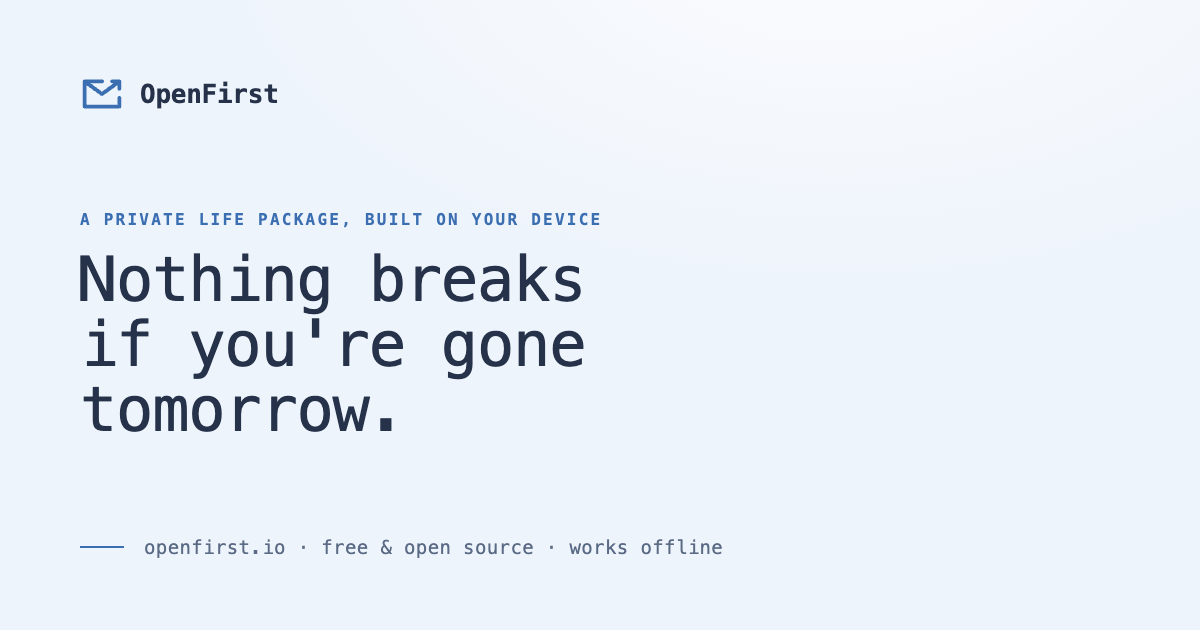
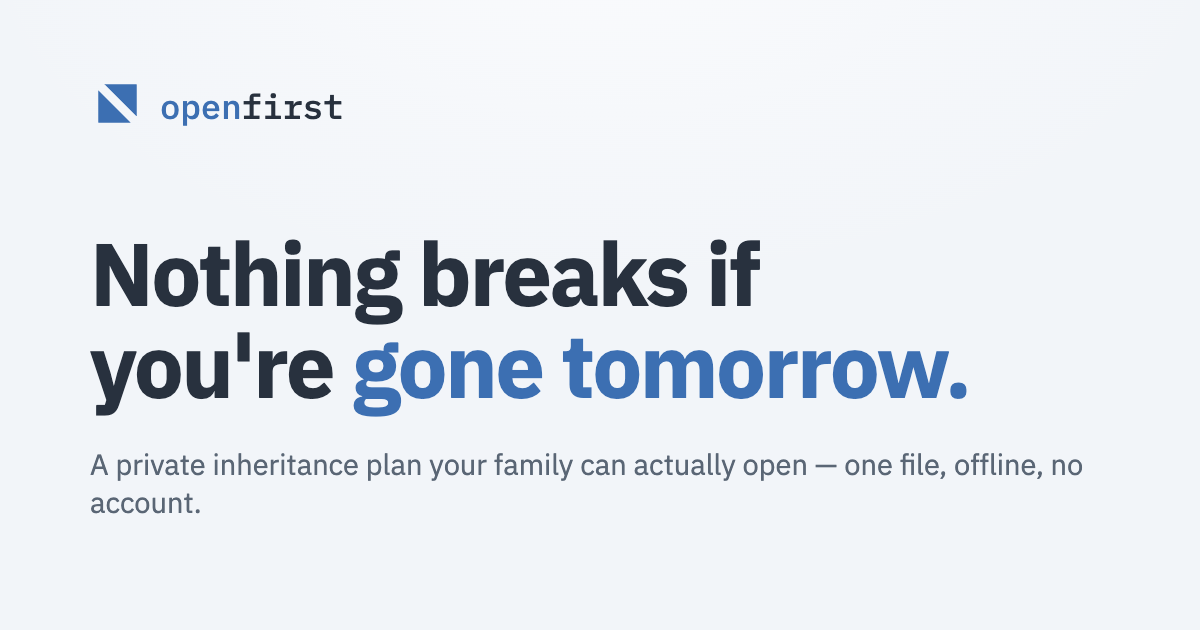
Brand: V5 split mark everywhere; lowercase two-tone wordmark
logo.py now draws 'the split' — a square opened along its diagonal, two
solid triangles, the top half lifted toward the top-right. Regenerated
logo.svg (site + app), favicon.svg/16/32, apple-touch-icon, PWA icons,
maskable, and og.png. The wordmark next to the mark is now lowercase
'openfirst' set in mono with 'open' in heaven blue and 'first' in ink —
the color seam marks the word boundary, easier to parse than CamelCase.

diff --git a/app/public/404.html b/app/public/404.html
@@ -63,6 +63,7 @@
     }
     .topbar .row { height: 60px; }
     .brand { font-family: "IBM Plex Mono", ui-monospace, SFMono-Regular, Menlo, monospace; font-weight: 500; gap: 10px; color: var(--ink); }
+    .brand-name b { color: var(--accent-deep); font-weight: 500; }
     .brand:hover { text-decoration: none; }
     .logo { width: 24px; height: 24px; display: block; }
     .topnav { display: flex; align-items: center; gap: 24px; }
@@ -113,7 +114,7 @@
 <body>
   <header class="topbar">
     <div class="container row">
-      <a class="brand row" href="/"><img class="logo" src="/logo.svg" alt="" /><span>OpenFirst</span></a>
+      <a class="brand row" href="/"><img class="logo" src="/logo.svg" alt="" /><span class="brand-name"><b>open</b>first</span></a>
       <span class="spacer"></span>
       <nav class="topnav">
         <a href="/demo/">Demo</a>

diff --git a/app/public/guides/bitcoin-inheritance-runbook/index.html b/app/public/guides/bitcoin-inheritance-runbook/index.html
@@ -62,6 +62,7 @@
     }
     .topbar .row { height: 60px; }
     .brand { font-family: "IBM Plex Mono", ui-monospace, SFMono-Regular, Menlo, monospace; font-weight: 500; gap: 10px; color: var(--ink); }
+    .brand-name b { color: var(--accent-deep); font-weight: 500; }
     .brand:hover { text-decoration: none; }
     .logo { width: 24px; height: 24px; display: block; }
     .topnav { display: flex; align-items: center; gap: 24px; }
@@ -126,7 +127,7 @@
 <body>
   <header class="topbar">
     <div class="container row">
-      <a class="brand row" href="/"><img class="logo" src="/logo.svg" alt="" /><span>OpenFirst</span></a>
+      <a class="brand row" href="/"><img class="logo" src="/logo.svg" alt="" /><span class="brand-name"><b>open</b>first</span></a>
       <span class="spacer"></span>
       <nav class="topnav">
         <a href="/demo/">Demo</a>

diff --git a/app/public/guides/dry-run/index.html b/app/public/guides/dry-run/index.html
@@ -62,6 +62,7 @@
     }
     .topbar .row { height: 60px; }
     .brand { font-family: "IBM Plex Mono", ui-monospace, SFMono-Regular, Menlo, monospace; font-weight: 500; gap: 10px; color: var(--ink); }
+    .brand-name b { color: var(--accent-deep); font-weight: 500; }
     .brand:hover { text-decoration: none; }
     .logo { width: 24px; height: 24px; display: block; }
     .topnav { display: flex; align-items: center; gap: 24px; }
@@ -126,7 +127,7 @@
 <body>
   <header class="topbar">
     <div class="container row">
-      <a class="brand row" href="/"><img class="logo" src="/logo.svg" alt="" /><span>OpenFirst</span></a>
+      <a class="brand row" href="/"><img class="logo" src="/logo.svg" alt="" /><span class="brand-name"><b>open</b>first</span></a>
       <span class="spacer"></span>
       <nav class="topnav">
         <a href="/demo/">Demo</a>

diff --git a/app/public/guides/first-72-hours/index.html b/app/public/guides/first-72-hours/index.html
@@ -62,6 +62,7 @@
     }
     .topbar .row { height: 60px; }
     .brand { font-family: "IBM Plex Mono", ui-monospace, SFMono-Regular, Menlo, monospace; font-weight: 500; gap: 10px; color: var(--ink); }
+    .brand-name b { color: var(--accent-deep); font-weight: 500; }
     .brand:hover { text-decoration: none; }
     .logo { width: 24px; height: 24px; display: block; }
     .topnav { display: flex; align-items: center; gap: 24px; }
@@ -126,7 +127,7 @@
 <body>
   <header class="topbar">
     <div class="container row">
-      <a class="brand row" href="/"><img class="logo" src="/logo.svg" alt="" /><span>OpenFirst</span></a>
+      <a class="brand row" href="/"><img class="logo" src="/logo.svg" alt="" /><span class="brand-name"><b>open</b>first</span></a>
       <span class="spacer"></span>
       <nav class="topnav">
         <a href="/demo/">Demo</a>

diff --git a/app/public/guides/index.html b/app/public/guides/index.html
@@ -62,6 +62,7 @@
     }
     .topbar .row { height: 60px; }
     .brand { font-family: "IBM Plex Mono", ui-monospace, SFMono-Regular, Menlo, monospace; font-weight: 500; gap: 10px; color: var(--ink); }
+    .brand-name b { color: var(--accent-deep); font-weight: 500; }
     .brand:hover { text-decoration: none; }
     .logo { width: 24px; height: 24px; display: block; }
     .topnav { display: flex; align-items: center; gap: 24px; }
@@ -137,7 +138,7 @@
 <body>
   <header class="topbar">
     <div class="container row">
-      <a class="brand row" href="/"><img class="logo" src="/logo.svg" alt="" /><span>OpenFirst</span></a>
+      <a class="brand row" href="/"><img class="logo" src="/logo.svg" alt="" /><span class="brand-name"><b>open</b>first</span></a>
       <span class="spacer"></span>
       <nav class="topnav">
         <a href="/demo/">Demo</a>

diff --git a/app/public/guides/trusted-helper-protocol/index.html b/app/public/guides/trusted-helper-protocol/index.html
@@ -62,6 +62,7 @@
     }
     .topbar .row { height: 60px; }
     .brand { font-family: "IBM Plex Mono", ui-monospace, SFMono-Regular, Menlo, monospace; font-weight: 500; gap: 10px; color: var(--ink); }
+    .brand-name b { color: var(--accent-deep); font-weight: 500; }
     .brand:hover { text-decoration: none; }
     .logo { width: 24px; height: 24px; display: block; }
     .topnav { display: flex; align-items: center; gap: 24px; }
@@ -126,7 +127,7 @@
 <body>
   <header class="topbar">
     <div class="container row">
-      <a class="brand row" href="/"><img class="logo" src="/logo.svg" alt="" /><span>OpenFirst</span></a>
+      <a class="brand row" href="/"><img class="logo" src="/logo.svg" alt="" /><span class="brand-name"><b>open</b>first</span></a>
       <span class="spacer"></span>
       <nav class="topnav">
         <a href="/demo/">Demo</a>

diff --git a/app/public/how-to-use/index.html b/app/public/how-to-use/index.html
@@ -62,6 +62,7 @@
     }
     .topbar .row { height: 60px; }
     .brand { font-family: "IBM Plex Mono", ui-monospace, SFMono-Regular, Menlo, monospace; font-weight: 500; gap: 10px; color: var(--ink); }
+    .brand-name b { color: var(--accent-deep); font-weight: 500; }
     .brand:hover { text-decoration: none; }
     .logo { width: 24px; height: 24px; display: block; }
     .topnav { display: flex; align-items: center; gap: 24px; }
@@ -132,7 +133,7 @@
 <body>
   <header class="topbar">
     <div class="container row">
-      <a class="brand row" href="/"><img class="logo" src="/logo.svg" alt="" /><span>OpenFirst</span></a>
+      <a class="brand row" href="/"><img class="logo" src="/logo.svg" alt="" /><span class="brand-name"><b>open</b>first</span></a>
       <span class="spacer"></span>
       <nav class="topnav">
         <a href="/demo/">Demo</a>

diff --git a/app/public/pricing/index.html b/app/public/pricing/index.html
@@ -55,6 +55,7 @@
     }
     .topbar .row { height: 60px; }
     .brand { font-family: "IBM Plex Mono", ui-monospace, SFMono-Regular, Menlo, monospace; font-weight: 500; gap: 10px; color: var(--ink); }
+    .brand-name b { color: var(--accent-deep); font-weight: 500; }
     .brand:hover { text-decoration: none; }
     .logo { width: 24px; height: 24px; display: block; }
     .topnav { display: flex; align-items: center; gap: 24px; }
@@ -126,7 +127,7 @@
 <body>
   <header class="topbar">
     <div class="container row">
-      <a class="brand row" href="/"><img class="logo" src="/logo.svg" alt="" /><span>OpenFirst</span></a>
+      <a class="brand row" href="/"><img class="logo" src="/logo.svg" alt="" /><span class="brand-name"><b>open</b>first</span></a>
       <span class="spacer"></span>
       <nav class="topnav">
         <a href="/demo/">Demo</a>

diff --git a/app/public/security/index.html b/app/public/security/index.html
@@ -62,6 +62,7 @@
     }
     .topbar .row { height: 60px; }
     .brand { font-family: "IBM Plex Mono", ui-monospace, SFMono-Regular, Menlo, monospace; font-weight: 500; gap: 10px; color: var(--ink); }
+    .brand-name b { color: var(--accent-deep); font-weight: 500; }
     .brand:hover { text-decoration: none; }
     .logo { width: 24px; height: 24px; display: block; }
     .topnav { display: flex; align-items: center; gap: 24px; }
@@ -113,7 +114,7 @@
 <body>
   <header class="topbar">
     <div class="container row">
-      <a class="brand row" href="/"><img class="logo" src="/logo.svg" alt="" /><span>OpenFirst</span></a>
+      <a class="brand row" href="/"><img class="logo" src="/logo.svg" alt="" /><span class="brand-name"><b>open</b>first</span></a>
       <span class="spacer"></span>
       <nav class="topnav">
         <a href="/demo/">Demo</a>

diff --git a/app/site/index.html b/app/site/index.html
@@ -71,6 +71,7 @@
     }
     .topbar .row { height: 60px; }
     .brand { font-family: var(--mono); font-weight: 500; gap: 10px; color: var(--ink); }
+    .brand-name b { color: var(--accent-deep); font-weight: 500; }
     .brand:hover { text-decoration: none; }
     .logo { width: 24px; height: 24px; display: block; }
     .topnav { display: flex; align-items: center; gap: 24px; }
@@ -256,7 +257,7 @@
 <body class="home">
   <header class="topbar">
     <div class="container row">
-      <a class="brand row" href="/"><img class="logo" src="/logo.svg" alt="" /><span>OpenFirst</span></a>
+      <a class="brand row" href="/"><img class="logo" src="/logo.svg" alt="" /><span class="brand-name"><b>open</b>first</span></a>
       <span class="spacer"></span>
       <nav class="topnav">
         <a href="/demo/">Demo</a>

diff --git a/app/src/components/Landing.svelte b/app/src/components/Landing.svelte
@@ -65,7 +65,7 @@
     <div class="container row">
       <a class="brand row" href="/">
         <img class="logo" src={logo} alt="" aria-hidden="true" />
-        <span>OpenFirst</span>
+        <span class="brand-name"><b>open</b>first</span>
       </a>
       <span class="spacer"></span>
       <nav class="topnav">
@@ -167,6 +167,7 @@
   }
   .topbar .row { height: 60px; }
   .brand { font-family: var(--mono); font-weight: 500; gap: 10px; color: var(--ink); }
+  .brand-name b { color: var(--accent-deep); font-weight: 500; }
   .brand:hover { text-decoration: none; }
   .logo { width: 24px; height: 24px; display: block; }
   .topnav { display: flex; align-items: center; gap: 24px; }

diff --git a/app/scripts/logo.py b/app/scripts/logo.py
@@ -1,17 +1,13 @@
 #!/usr/bin/env python3
 """
-OpenFirst logo — described mathematically and rendered to SVG or PNG.
+OpenFirst logo — "the split", described mathematically, rendered to SVG or PNG.
 
-The mark is an ENVELOPE whose top-right corner is "cut open", the way the
-"open in external" icon cuts its box: the top and right edges stop short, a
-detached L-shaped corner piece becomes the arrowhead, and the right line of
-the flap's V continues as a diagonal shaft pointing into it — the digital
-"open" gesture. An envelope you open first.
+The mark is a SQUARE OPENED ALONG ITS DIAGONAL: two solid right triangles,
+the top half lifted away toward the top-right. Something sealed, opening —
+pure geometry, no outline, reads at 16px. (Chosen by Miro 2026-07-10 from
+the triangle series, V5.)
 
-Stroke thickness matches the freedomclock.io mark (ring width 80/1024 ≈ 7.8%
-of the canvas). Round caps/joins, like the marker sketch it comes from.
-
-Same spirit as freedomclock.io/internal/freedom_clock_icon.py.
+Sharp edges, solid fills. Same spirit as freedomclock.io's generated mark.
 
 Examples:
   python3 scripts/logo.py --format svg --size 1024 --out logo.svg
@@ -20,7 +16,6 @@ Examples:
 """
 
 import argparse
-import math
 
 
 # ---------- colour helpers (as in freedom_clock_icon.py) ----------
@@ -54,51 +49,29 @@ def rgba_to_hex(rgba):
 # Built in a 100-unit design space, then fitted to the canvas. All numbers are
 # ratios of that space.
 #
-#   L,T ────────────╌╌  gap  ╌╌   ↗ tip
-#    │ ╲          ╱  (shaft through the cut corner)
-#    │   ╲      ╱ V
-#    │     ╲  ╱                 ╎ gap
-#    │      V                   │ R (edge resumes lower)
-#    └──────────────────────────┘
+#        ┌──────────╱ upper  (a square's top-right triangle,
+#        │        ╱╱          displaced toward the top-right)
+#        │      ╱╱
+#   lower│    ╱╱  ← the open diagonal gap
+#        │  ╱
+#        └──────────
 #
-# The flap's right line and the arrow shaft are ONE stroke: from the V vertex,
-# through where the corner would be, out to the arrowhead.
+# Two solid right triangles from one square, split along the diagonal; the
+# upper half is shifted (+SHIFT, -SHIFT) so a parallel gap opens between them.
 
-STROKE = 8.0          # 8% of the design space ≈ freedomclock ring thickness
-L, R, T, B = 14.0, 86.0, 26.0, 78.0   # envelope rectangle
-TOP_END_X = 50.0      # top edge stops here (start of the cut)
-RIGHT_START_Y = 60.0  # right edge resumes here (end of the cut)
-CORNER_ARM = 15.0     # length of the detached corner piece's two arms (shorter arrowhead)
-V = (50.0, 52.0)      # flap vertex (mid-width, mid-height)
-SHAFT_STOP = 1.0      # shaft reaches the corner so it touches the arrowhead
-
-
-def _unit(dx, dy):
-    n = math.hypot(dx, dy)
-    return dx / n, dy / n
+STROKE = 0.0                     # solid mark — no strokes
+SQ_L, SQ_T, SQ_R, SQ_B = 16.0, 20.0, 78.0, 82.0   # the source square
+SHIFT = 12.0                     # how far the top half has lifted away
 
 
 def build_mark():
-    """Return (polylines, polygons): [(name, [(x, y), ...])] each. Polylines are
-    stroked; there are no filled polygons.
-
-    Like the "open in external" icon, the arrowhead IS the envelope's own
-    top-right corner: a detached L-shaped corner piece, with the flap's right
-    line continuing as a diagonal shaft that points into it."""
-    corner = (R, T)
-    # Shaft direction: from the flap vertex toward the corner, stopping short.
-    d = _unit(corner[0] - V[0], corner[1] - V[1])
-    tip = (corner[0] - SHAFT_STOP * d[0], corner[1] - SHAFT_STOP * d[1])
-
-    polylines = [
-        # Body: one open path — top edge (cut short), left, bottom, right (cut short).
-        ("body", [(TOP_END_X, T), (L, T), (L, B), (R, B), (R, RIGHT_START_Y)]),
-        # The detached corner piece — the arrowhead.
-        ("corner", [(R - CORNER_ARM, T), corner, (R, T + CORNER_ARM)]),
-        # Flap left line + flap right line continuing into the arrow shaft.
-        ("flap", [(L, T), V, tip]),
-    ]
-    return polylines, []
+    """Return (polylines, polygons): [(name, [(x, y), ...])] each.
+    The split mark is two filled triangles, no strokes."""
+    # Lower-left half of the square, staying put.
+    lower = [(SQ_L, SQ_T), (SQ_L, SQ_B), (SQ_R, SQ_B)]
+    # Upper-right half, lifted toward the top-right.
+    upper = [(SQ_L + SHIFT, SQ_T - SHIFT), (SQ_R + SHIFT, SQ_T - SHIFT), (SQ_R + SHIFT, SQ_B - SHIFT)]
+    return [], [("lower", lower), ("upper", upper)]
 
 
 def fit(polylines, polygons, size, padding):
